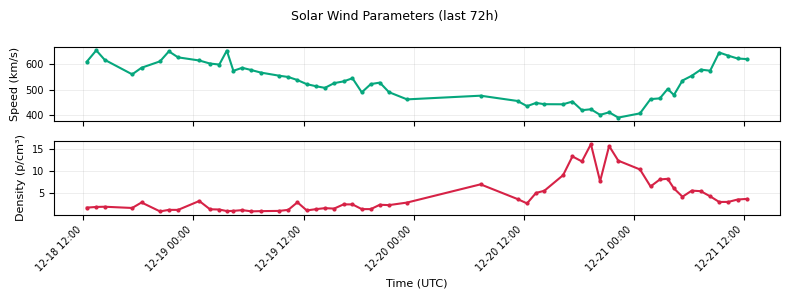
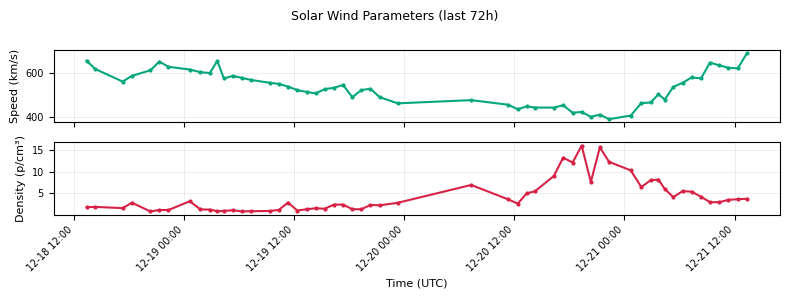
Vault Narrator: Auto-update 2025-12-21 14:04 UTC

diff --git a/LATEST_VAULT_STATUS.md b/LATEST_VAULT_STATUS.md
@@ -1,6 +1,6 @@
 # 🔐 VAULT STATUS REPORT
 
-**Generated:** 2025-12-21 13:11 UTC  
+**Generated:** 2025-12-21 14:04 UTC  
 **Data Source:** `data/cme_heartbeat_log_2025_12.csv`
 
 ---
@@ -11,14 +11,14 @@
 **Last Lock Timestamp:** 2025-12-21 11:19:00 UTC  
 
 **Latest Solar Wind Conditions:**  
-- Density: 3.66 p/cm³  
-- Speed: 620.7 km/s  
+- Density: 3.76 p/cm³  
+- Speed: 688.1 km/s  
 
 ---
 
 ## 🌞 NOAA SPACE WEATHER SUMMARIES
 
-- [SRS Report](reports/latest_srs.md) (fetched: 2025-12-21 13:11 UTC)  
+- [SRS Report](reports/latest_srs.md) (fetched: 2025-12-21 14:04 UTC)  
 - F10.7 Report: *not available*  
 
 ---
@@ -39,7 +39,6 @@
 
 | Time (UTC)          | χ Amplitude | Density (p/cm³) | Speed (km/s) | χ Status |
 |---------------------|-------------|-----------------|--------------|----------|
-| 2025-12-20 16:18:00 | 0.1231 | 9.06 | 443.5 | — |
 | 2025-12-20 17:19:00 | 0.1276 | 13.33 | 454.3 | — |
 | 2025-12-20 18:21:00 | 0.1135 | 12.19 | 420.4 | — |
 | 2025-12-20 19:20:00 | 0.1150 | 16.12 | 424.0 | — |
@@ -59,6 +58,7 @@
 | 2025-12-21 10:19:00 | 0.1500 | 2.97 | 634.1 | ✅ LOCK |
 | 2025-12-21 11:19:00 | 0.1500 | 3.51 | 623.0 | ✅ LOCK |
 | 2025-12-21 12:21:00 | 0.1497 | 3.66 | 620.7 | — |
+| 2025-12-21 13:20:00 | 0.1463 | 3.76 | 688.1 | — |
 
 ---
 
